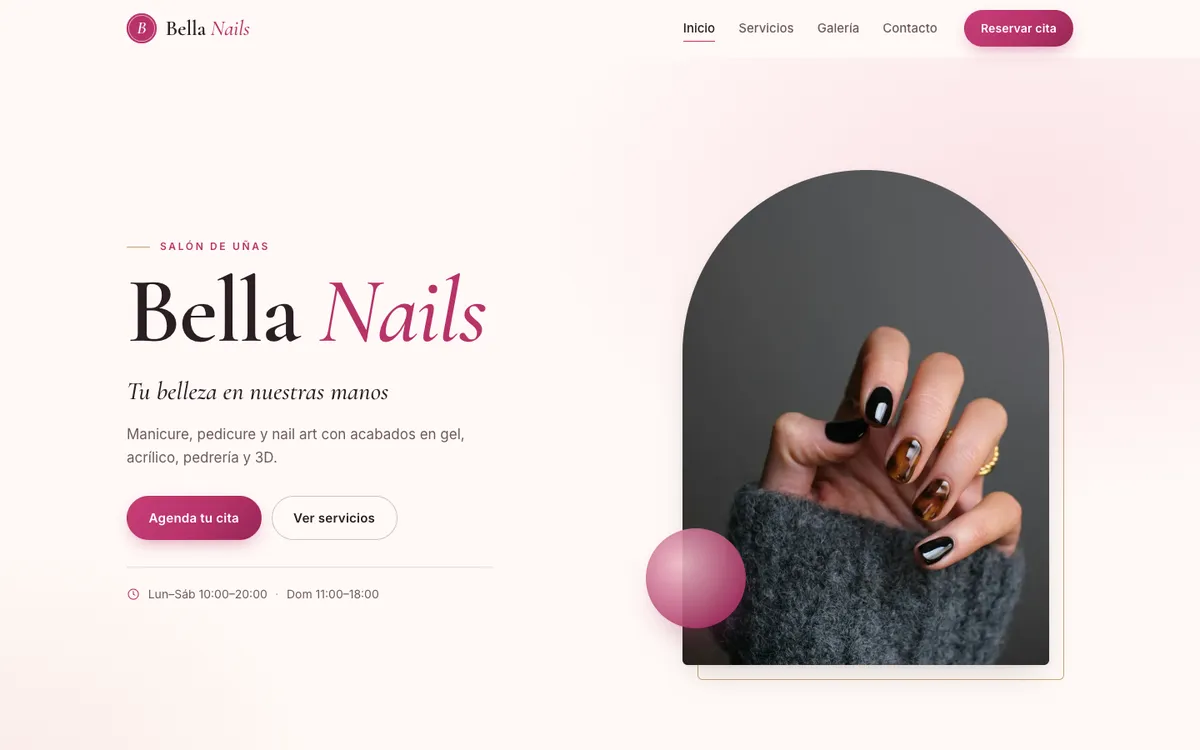
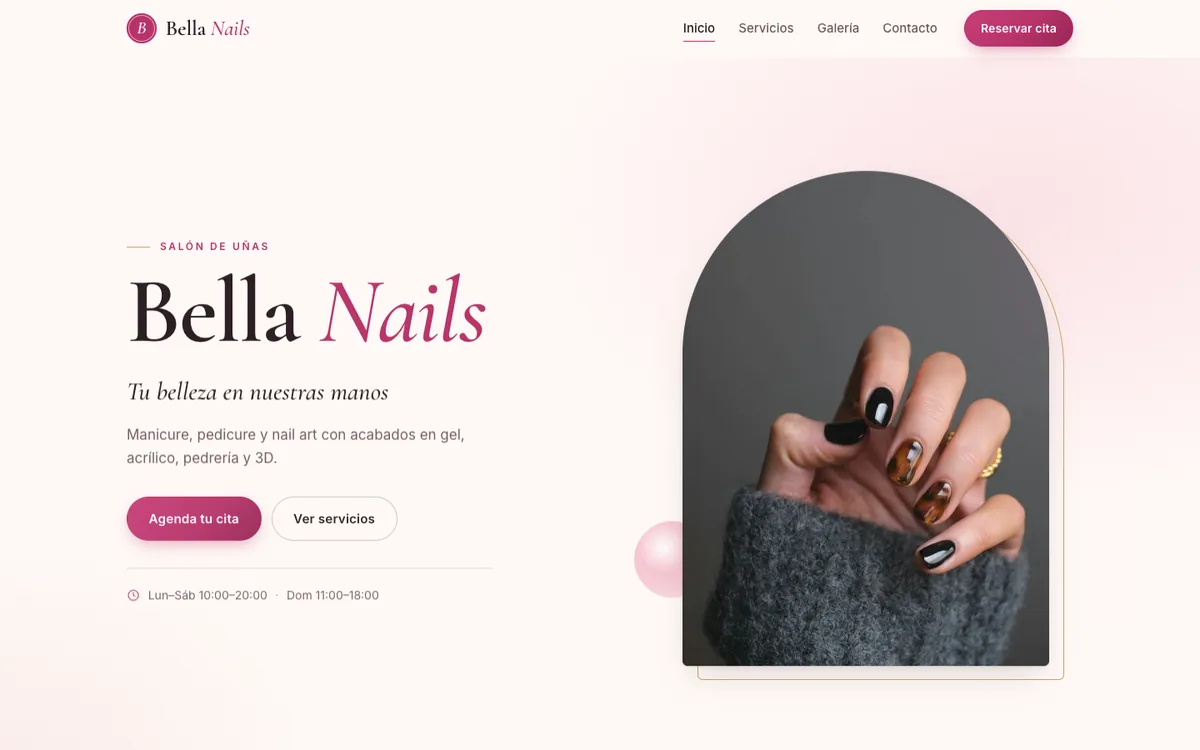
Pulir galería, tarjeta de nail art, hero y validación de horario
- Galería de 7 fotos sin repeticiones, con srcset 800/1600 para pantallas retina
- Tarjeta Nail Art con la foto del diseño de hoja (distinta de Pedicure)
- Elimina JPG de galería sin uso y fotos duplicadas
- Acento circular del hero más sutil, detrás de la foto; oculto en móvil
- El formulario rechaza horas fuera del horario del salón o ya pasadas hoy
- Textos: 'solicitud de cita' en lugar de 'reserva en segundos'; og:locale es_419
- JSON-LD sin teléfono, correo ni dirección de ejemplo

diff --git a/index.html b/index.html
@@ -4,15 +4,15 @@
     <meta charset="UTF-8">
     <meta name="viewport" content="width=device-width, initial-scale=1">
     <title>Bella Nails | Manicure, Pedicure y Nail Art</title>
-    <meta name="description" content="Bella Nails, salón de uñas: manicure clásico, gel y acrílico, pedicure spa y nail art con pedrería y 3D. Abierto de lunes a sábado de 10:00 a 20:00 y domingos de 11:00 a 18:00. Reserva tu cita en línea.">
+    <meta name="description" content="Bella Nails, salón de uñas: manicure clásico, gel y acrílico, pedicure spa y nail art con pedrería y 3D. Abierto de lunes a sábado de 10:00 a 20:00 y domingos de 11:00 a 18:00. Solicita tu cita en línea.">
     <meta name="theme-color" content="#FFF9F6">
     <link rel="canonical" href="https://gustavolarcodev.github.io/bella-nails-salon/">
 
     <meta property="og:type" content="website">
-    <meta property="og:locale" content="es_ES">
+    <meta property="og:locale" content="es_419">
     <meta property="og:site_name" content="Bella Nails">
     <meta property="og:title" content="Bella Nails | Manicure, Pedicure y Nail Art">
-    <meta property="og:description" content="Tu belleza en nuestras manos. Manicure, pedicure y nail art. Reserva tu cita en línea.">
+    <meta property="og:description" content="Tu belleza en nuestras manos. Manicure, pedicure y nail art. Solicita tu cita en línea.">
     <meta property="og:url" content="https://gustavolarcodev.github.io/bella-nails-salon/">
     <meta property="og:image" content="https://gustavolarcodev.github.io/bella-nails-salon/images/og.jpg">
     <meta property="og:image:width" content="1200">
@@ -20,7 +20,7 @@
     <meta property="og:image:alt" content="Mano con manicura oscura y efecto carey sobre fondo gris">
     <meta name="twitter:card" content="summary_large_image">
     <meta name="twitter:title" content="Bella Nails | Manicure, Pedicure y Nail Art">
-    <meta name="twitter:description" content="Tu belleza en nuestras manos. Manicure, pedicure y nail art. Reserva tu cita en línea.">
+    <meta name="twitter:description" content="Tu belleza en nuestras manos. Manicure, pedicure y nail art. Solicita tu cita en línea.">
     <meta name="twitter:image" content="https://gustavolarcodev.github.io/bella-nails-salon/images/og.jpg">
 
     <link rel="icon" href="favicon.svg" type="image/svg+xml">
@@ -42,9 +42,6 @@
         "name": "Bella Nails",
         "url": "https://gustavolarcodev.github.io/bella-nails-salon/",
         "image": "https://gustavolarcodev.github.io/bella-nails-salon/images/og.jpg",
-        "telephone": "+123 456 7890",
-        "email": "citas@bellanails.com",
-        "address": "Plaza Principal 456, Ciudad",
         "openingHours": ["Mo-Sa 10:00-20:00", "Su 11:00-18:00"]
     }
     </script>
@@ -105,7 +102,7 @@
                 <div class="section-head reveal">
                     <p class="eyebrow">Servicios</p>
                     <h2 id="servicios-title">Nuestros servicios</h2>
-                    <p class="section-lead">Elige tu servicio y reserva en segundos. Los precios indicados son desde la tarifa base.</p>
+                    <p class="section-lead">Elige tu servicio y envía tu solicitud de cita en segundos. Los precios indicados son desde la tarifa base.</p>
                 </div>
                 <div class="services-grid">
                     <article class="service-card reveal">
@@ -148,7 +145,7 @@
                         <div class="service-media">
                             <picture>
                                 <source type="image/webp" srcset="images/nail-art-480.webp 480w, images/nail-art-800.webp 800w" sizes="(min-width: 900px) 360px, (min-width: 600px) 45vw, 92vw">
-                                <img src="images/nail-art-800.jpg" width="800" height="1200" alt="Manos cruzadas con uñas rojas junto a una lámpara de secado" loading="lazy" decoding="async">
+                                <img src="images/nail-art-800.jpg" width="800" height="1200" alt="Manicura verde oscuro con una uña decorada con una hoja pintada a mano" loading="lazy" decoding="async">
                             </picture>
                         </div>
                         <div class="service-body">
@@ -174,15 +171,13 @@
                     <p class="section-lead">Toca cualquier foto para verla en grande.</p>
                 </div>
                 <ul class="gallery-grid" role="list">
-                    <li class="g-a"><a href="images/gallery7-1600.webp" class="gallery-item"><img src="images/gallery7-800.webp" width="800" height="1200" alt="Manicura verde oscuro con una uña decorada con una hoja" loading="lazy" decoding="async"></a></li>
-                    <li class="g-b"><a href="images/gallery4-1600.webp" class="gallery-item"><img src="images/gallery4-800.webp" width="800" height="1200" alt="Mano con uñas cortas en tono nude y una uña en rojo" loading="lazy" decoding="async"></a></li>
-                    <li class="g-c"><a href="images/gallery1-1600.webp" class="gallery-item"><img src="images/gallery1-800.webp" width="800" height="533" alt="Uñas almendradas en rosa pastel con brillo" loading="lazy" decoding="async"></a></li>
-                    <li class="g-d"><a href="images/gallery6-1600.webp" class="gallery-item"><img src="images/gallery6-800.webp" width="800" height="1200" alt="Manicurista aplicando esmalte rojo con guantes negros" loading="lazy" decoding="async"></a></li>
-                    <li class="g-e"><a href="images/gallery8-1600.webp" class="gallery-item"><img src="images/gallery8-800.webp" width="800" height="1200" alt="Muestrario de colores de esmalte en abanico junto a la lámpara de secado" loading="lazy" decoding="async"></a></li>
-                    <li class="g-f"><a href="images/gallery10-1600.webp" class="gallery-item"><img src="images/gallery10-800.webp" width="800" height="1200" alt="Manicurista trabajando las uñas de una clienta en la mesa del salón" loading="lazy" decoding="async"></a></li>
-                    <li class="g-g"><a href="images/gallery9-1600.webp" class="gallery-item"><img src="images/gallery9-800.webp" width="800" height="1200" alt="Clienta eligiendo tono en el muestrario de esmaltes" loading="lazy" decoding="async"></a></li>
-                    <li class="g-h"><a href="images/gallery2-1600.webp" class="gallery-item"><img src="images/gallery2-800.webp" width="800" height="533" alt="Mesa de manicura con clienta y manicurista trabajando" loading="lazy" decoding="async"></a></li>
-                    <li class="g-i"><a href="images/gallery11-1600.webp" class="gallery-item"><img src="images/gallery11-800.webp" width="800" height="1200" alt="Clienta secando sus uñas de gel bajo la lámpara LED" loading="lazy" decoding="async"></a></li>
+                    <li class="g-a"><a href="images/gallery1-1600.webp" class="gallery-item"><img src="images/gallery1-800.webp" srcset="images/gallery1-800.webp 800w, images/gallery1-1600.webp 1600w" sizes="(min-width: 1200px) 760px, (min-width: 721px) 64vw, 100vw" width="800" height="533" alt="Uñas almendradas en rosa pastel con brillo" loading="lazy" decoding="async"></a></li>
+                    <li class="g-b"><a href="images/gallery4-1600.webp" class="gallery-item"><img src="images/gallery4-800.webp" srcset="images/gallery4-800.webp 800w, images/gallery4-1600.webp 1600w" sizes="(min-width: 1200px) 380px, (min-width: 721px) 32vw, 50vw" width="800" height="1200" alt="Mano con uñas cortas en tono nude y una uña en rojo" loading="lazy" decoding="async"></a></li>
+                    <li class="g-c"><a href="images/gallery6-1600.webp" class="gallery-item"><img src="images/gallery6-800.webp" srcset="images/gallery6-800.webp 800w, images/gallery6-1600.webp 1600w" sizes="(min-width: 1200px) 380px, (min-width: 721px) 32vw, 50vw" width="800" height="1200" alt="Manicurista aplicando esmalte rojo con guantes negros" loading="lazy" decoding="async"></a></li>
+                    <li class="g-d"><a href="images/gallery8-1600.webp" class="gallery-item"><img src="images/gallery8-800.webp" srcset="images/gallery8-800.webp 800w, images/gallery8-1600.webp 1600w" sizes="(min-width: 1200px) 380px, (min-width: 721px) 32vw, 50vw" width="800" height="1200" alt="Muestrario de colores de esmalte en abanico junto a la lámpara de secado" loading="lazy" decoding="async"></a></li>
+                    <li class="g-e"><a href="images/gallery10-1600.webp" class="gallery-item"><img src="images/gallery10-800.webp" srcset="images/gallery10-800.webp 800w, images/gallery10-1600.webp 1600w" sizes="(min-width: 1200px) 380px, (min-width: 721px) 32vw, 50vw" width="800" height="1200" alt="Manicurista trabajando las uñas de una clienta en la mesa del salón" loading="lazy" decoding="async"></a></li>
+                    <li class="g-f"><a href="images/gallery2-1600.webp" class="gallery-item"><img src="images/gallery2-800.webp" srcset="images/gallery2-800.webp 800w, images/gallery2-1600.webp 1600w" sizes="(min-width: 1200px) 760px, (min-width: 721px) 64vw, 50vw" width="800" height="533" alt="Mesa de manicura con clienta y manicurista trabajando" loading="lazy" decoding="async"></a></li>
+                    <li class="g-g"><a href="images/gallery11-1600.webp" class="gallery-item"><img src="images/gallery11-800.webp" srcset="images/gallery11-800.webp 800w, images/gallery11-1600.webp 1600w" sizes="(min-width: 1200px) 380px, (min-width: 721px) 32vw, 50vw" width="800" height="1200" alt="Clienta secando sus uñas de gel bajo la lámpara LED" loading="lazy" decoding="async"></a></li>
                 </ul>
             </div>
         </section>
@@ -254,8 +249,8 @@
                     </div>
                     <div class="field">
                         <label for="f-hora">Hora</label>
-                        <input id="f-hora" name="hora" type="time" required>
-                        <p class="field-error" id="e-hora" hidden>Elige una hora.</p>
+                        <input id="f-hora" name="hora" type="time" min="10:00" max="20:00" step="900" required>
+                        <p class="field-error" id="e-hora" hidden>Elige una hora dentro del horario del salón (lun–sáb 10:00–20:00, dom 11:00–18:00).</p>
                     </div>
                     <div class="field-full form-actions">
                         <button type="submit" class="btn btn-primary btn-block">Agendar cita</button>

diff --git a/styles.css b/styles.css
@@ -398,14 +398,13 @@ h3 { font-size: 1.75rem; }
 .hero-media::after {
     content: "";
     position: absolute;
-    width: 120px; height: 120px;
-    left: -44px; bottom: 44px;
+    width: 92px; height: 92px;
+    left: -58px; bottom: 84px;
     border-radius: 50%;
-    background: radial-gradient(circle at 35% 35%, var(--rose-soft), var(--rose) 75%);
-    opacity: .9;
-    z-index: 2;
-    filter: saturate(.9);
-    box-shadow: 0 20px 40px -18px rgba(184, 51, 106, .6);
+    background: radial-gradient(circle at 38% 34%, #fff 0, var(--rose-soft) 38%, rgba(242, 184, 198, .35) 100%);
+    opacity: .85;
+    z-index: 0;
+    pointer-events: none;
 }
 .hero-media picture {
     position: relative;
@@ -431,7 +430,7 @@ h3 { font-size: 1.75rem; }
     }
     .hero-copy { order: 1; }
     .hero-media { order: 2; width: min(100%, 380px); }
-    .hero-media::after { width: 84px; height: 84px; left: -18px; bottom: 30px; }
+    .hero-media::after { width: 64px; height: 64px; left: -8px; bottom: 30px; z-index: 2; }
 }
 @media (max-width: 480px) {
     .hero-actions .btn { flex: 1 1 0; padding-inline: 1rem; white-space: nowrap; }
@@ -441,6 +440,7 @@ h3 { font-size: 1.75rem; }
     .hero-media picture { aspect-ratio: 1 / 1.08; }
     .hero-media img { object-position: 50% 62%; }
     .hero-media::before { inset: 14px -14px -14px 14px; }
+    .hero-media::after { display: none; }
 }
 
 /* ----- Sections ----- */
@@ -555,15 +555,15 @@ h3 { font-size: 1.75rem; }
     grid-template-areas:
         "a a b"
         "a a b"
-        "c c d"
-        "e f d"
-        "e f g"
-        "h i g";
+        "c d e"
+        "c d e"
+        "g f f"
+        "g f f";
     gap: 12px;
 }
 .g-a { grid-area: a; } .g-b { grid-area: b; } .g-c { grid-area: c; }
 .g-d { grid-area: d; } .g-e { grid-area: e; } .g-f { grid-area: f; }
-.g-g { grid-area: g; } .g-h { grid-area: h; } .g-i { grid-area: i; }
+.g-g { grid-area: g; }
 
 .gallery-item {
     position: relative;
@@ -579,8 +579,8 @@ h3 { font-size: 1.75rem; }
     object-fit: cover;
     transition: transform .8s var(--ease), filter .4s;
 }
-.g-i .gallery-item img { object-position: 50% 70%; }
-.g-h .gallery-item img { object-position: 50% 60%; }
+.g-g .gallery-item img { object-position: 50% 70%; }
+.g-f .gallery-item img { object-position: 50% 60%; }
 .gallery-item::after {
     content: "";
     position: absolute;

diff --git a/script.js b/script.js
@@ -173,12 +173,35 @@
         input.removeAttribute("aria-invalid");
         errorOf(input).hidden = true;
     }
+    // Horario: lun–sáb 10:00–20:00, dom 11:00–18:00; no se aceptan horas ya pasadas hoy
+    var timeInput = $("#f-hora");
+    function isValidTime(t) {
+        if (!/^\d{2}:\d{2}/.test(t)) return false;
+        var mins = +t.slice(0, 2) * 60 + +t.slice(3, 5);
+        var f = date.value;
+        var open = 10 * 60, close = 20 * 60;
+        if (f) {
+            var p = f.split("-");
+            if (new Date(+p[0], +p[1] - 1, +p[2]).getDay() === 0) { open = 11 * 60; close = 18 * 60; }
+        }
+        if (mins < open || mins > close) return false;
+        if (f === today) {
+            var n = new Date();
+            if (mins <= n.getHours() * 60 + n.getMinutes()) return false;
+        }
+        return true;
+    }
+    date.addEventListener("change", function () {
+        if (timeInput.value && isValidTime(timeInput.value)) clearError(timeInput);
+    });
+
     function isValid(input) {
         var v = input.value.trim();
         if (!v) return false;
         if (input.name === "email") return /^[^\s@]+@[^\s@]+\.[^\s@]+$/.test(v);
         if (input.name === "telefono") return v.replace(/\D/g, "").length >= 7;
         if (input.name === "fecha") return v >= today;
+        if (input.name === "hora") return isValidTime(v);
         return true;
     }
 
